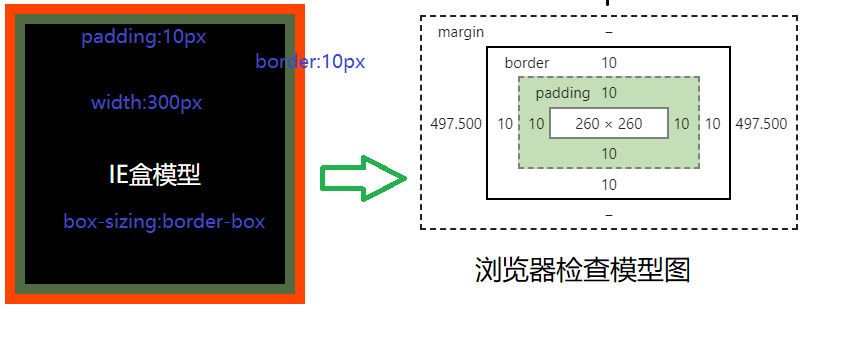
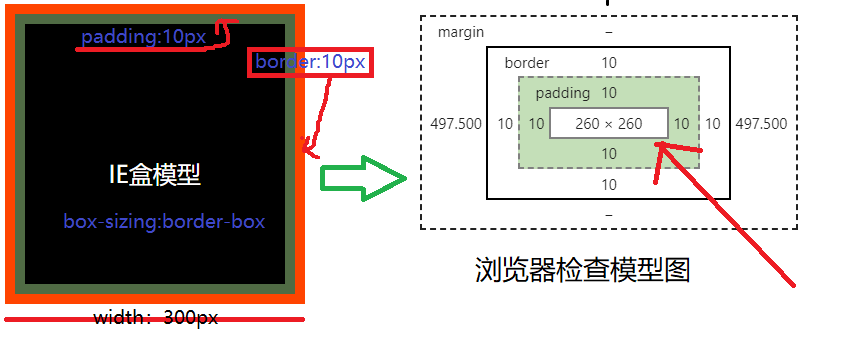
常用布局实现

diff --git a/_posts/2020-03-01-HTML.CSS-常用布局实现.md b/_posts/2020-03-01-HTML.CSS-常用布局实现.md
@@ -2,13 +2,19 @@
 layout: post
 title: 常用布局实现
 subtitle: 页面主流布局方式总结
-date: 2020-03-01
+date: 2020-03-30
 author: dukang
 header-img: img/css.jpg
 catalog: true
 tags: 
     - HTML/CSS
 ---
+
+1. [四列等宽布局](#四列等宽布局)
+2. [三栏布局](#三栏布局)
+3. [圣杯布局](#圣杯布局)
+4. [双飞翼布局](#双飞翼布局)
+5. [上下两行布局](#上下两行布局)
 
 ### 四列等宽布局，间距10px（考虑浏览器兼容性）
 
@@ -17,34 +23,12 @@ tags:
 
 ```html
 <style>
-  * {
-    margin: 0px;
-    padding: 0px;
-  }
-  .container {
-    margin-right: -10px; // 负值 ？
-  }
-  .row {
-    box-sizing: border-box;
-    padding-right: 10px;
-    width: 25%;
-    height: 100px;
-    line-height: 100px;
-    text-align: center;
-    float: left;
-    color: #fff;
-    background: #000;
-    background-clip: content-box;
-  }
-  .container::before {
-    display: table;
-    content: '';
-  }
-  .container::after {
-    display: table;
-    content: '';
-    clear: both;
-  }
+  *{margin:0;padding:0}
+  body,html{width:100%;overflow:hidden}
+  .container{margin-right:-10px}
+  .row{background:#000;line-height:2em;float:left;width:25%;padding-right:10px;
+    box-sizing:border-box;color:azure;background-clip:content-box;user-select:none}
+  .container:after,.container:before{display:table;content:"";clear:both}
 </style>
 <div class="container">
   <div class="row">第一列</div>
@@ -54,13 +38,136 @@ tags:
 </div>
 ```
 
+![](http://dukangblog.top/img/4cloumn.jpg)
+
 ### 三栏布局（左右两侧固定宽度，中间自适应宽度）
+
+position定位
+
+```html
+<head>
+  <style>
+    .box{height:100px;line-height:100px;background:#b16a6a;text-align:center}
+    .left,.right{width:200px;position:absolute;top:30px}
+    .left{left:0}
+    .right{right:0}
+    .center{min-width:200px;margin:30px 210px 0;height:300px}
+  </style>
+</head>
+<body>
+  <div class="box left">左栏</div>
+  <div class="box center">中心</div>
+  <div class="box right">右侧</div>
+</body>
+```
+
+float浮动，但是dom元素位置需要做更改
+
+```html
+<head>
+  <style>
+    .center{margin:0 210px;height:200px;line-height:200px;text-align:center;background-color:#ceb0b0}
+    .left,
+    .right{width:200px;height:100px;line-height:100px;text-align:center;background:#8f6060}
+    .left{float:left}
+    .right{float:right}
+  </style>
+</head>
+<body>
+  <!-- 注意，中心元素必须在最后 -->
+  <div class="left">左栏</div>
+  <div class="right">右侧</div>
+  <div class="center">中心</div>
+</body>
+```
+
+###### 圣杯布局
+
+margin负值法
+
+1. 内容块使用元素包裹并触发BFC，（float：left）
+2. 内容块左右外边距大于等于左右两块元素宽度
+3. 左右两块设置浮动，并且margin-left使用负值
+4. 左：margin-left: -100%
+5. 右：margin-right：-200px
+
+```html
+<head>
+  <style>
+    .wrap{width:100%;background-color:transparent;float:left}
+    .wrap .center{margin:0 210px;height:200px;background-color:#dde}
+    .left,.right{float:left;width:200px;height:100px;background:#f19292}
+    .left{margin-left:-100%}
+    .right{margin-left:-200px}
+  </style>
+</head>
+<body>
+  <!-- 注意，中心元素必须在最前面，且由wrap包裹，并触发BFC -->
+  <div class="wrap">
+    <div class="center">中心</div>
+  </div>
+  <div class="left">左栏</div>
+  <div class="right">右侧</div>
+</body>
+```
+
+flex布局法
+
+1. content设置flex：1
+
+```html
+<head>
+  <style>
+    .main{display:flex;align-items:flex-start;justify-content:space-between}
+    .main .center{background:#df7979;min-height:200px;flex:1}
+    .main .left,
+    .main .right{width:200px;height:100px;background:#8f6464}
+  </style>
+</head>
+<body>
+  <main class="main">
+    <div class="left">左栏</div>
+    <div class="center">中心</div>
+    <div class="right">右侧</div>
+  </main>
+</body>
+```
+
+![](http://dukangblog.top/img/3cloumn.jpg)
 
 ### 双飞翼布局
 
-### 圣杯布局
+```html
+<head>
+  <style>
+    body,html{width:100%;overflow-x:hidden;text-align:center;
+      color:#fff;background:#e4d3d3;display:flex;flex-direction:column}
+    .head{width:100%;min-height:60px;background:#2c2727}
+    .wrap{width:100%;background-color:transparent;float:left}
+    .wrap .center{margin:0 210px;height:500px;background-color:#7575cf}
+    .left,.right{float:left;width:200px;height:100px;background:#f19292}
+    .left{margin-left:-100%}
+    .right{margin-left:-200px}
+    .main{width:1200px;margin:10px auto}    
+    .main:after,
+    .main:before{display:table;content:"";clear:both}
+    .footer{width:100%;height:100px;background:#666}
+  </style>
+</head>
+<body>
+    <header class="head">head</header>
+    <main class="main">
+        <div class="wrap">
+            <div class="center">center</div>
+        </div>
+        <div class="left">left</div>
+        <div class="right">right</div>
+    </main>
+  <footer class="footer">footer</footer>
+</body>
+```
 
-### 流式布局
+![](http://dukangblog.top/img/grail.jpg)
 
 ### 上下两行布局（下行高度固定，上行自适应）
 
@@ -70,27 +177,9 @@ tags:
 
 ```html
 <style>
-  * {
-    margin: 0px;
-    padding: 0px;
-  }
-
-  .container {
-    height: 500px;
-    display: flex;
-    flex-direction: column;
-  }
-
-  .up {
-    height: auto;
-    background: red;
-    flex: 1; // 有剩余空间，则自动缩放
-  }
-
-  .down {
-    height: 200px;
-    background: #ccc;
-  }
+  .container{height:300px;display:flex;flex-direction:column}
+  .up{height:auto;background:#745353;flex:1}
+  .down{height:100px;background:#3d3a3a}
 </style>
 <div class="container">
   <div class="up">内容</div>
@@ -98,4 +187,4 @@ tags:
 </div>
 ```
 
-### 
+### 流式图片

diff --git a/_posts/2020-03-01-HTML.CSS-盒模型.md b/_posts/2020-03-01-HTML.CSS-盒模型.md
@@ -2,7 +2,7 @@
 layout: post
 title: 盒模型
 subtitle: W3C盒模型和IE盒模型
-date: 2020-03-01
+date: 2020-03-30
 author: dukang
 header-img: img/html.jpg
 catalog: true
@@ -56,7 +56,7 @@ tags:
 
 ![](http://dukangblog.top/img/ie.box.jpg)
 
-如图所示,我们设置的宽度是 300px ，可是因为设置了box-sizing:border-box，导致内容部分只有 260px；
+如图所示,**我们设置的宽度是 300px ，可是因为设置了box-sizing:border-box，导致内容部分只有 260px；**
 
 #### box-sizing属性
 
@@ -70,5 +70,3 @@ tags:
 #### 总结
 
 不同的效果对应了不同的需求，我们在实际开发中，需要根据UI图来实现页面布局，那么你必须清楚这个元素是宽度固定，还是内容部分固定，即盒子允许变大否？
-
-padding和border有什么区别？
